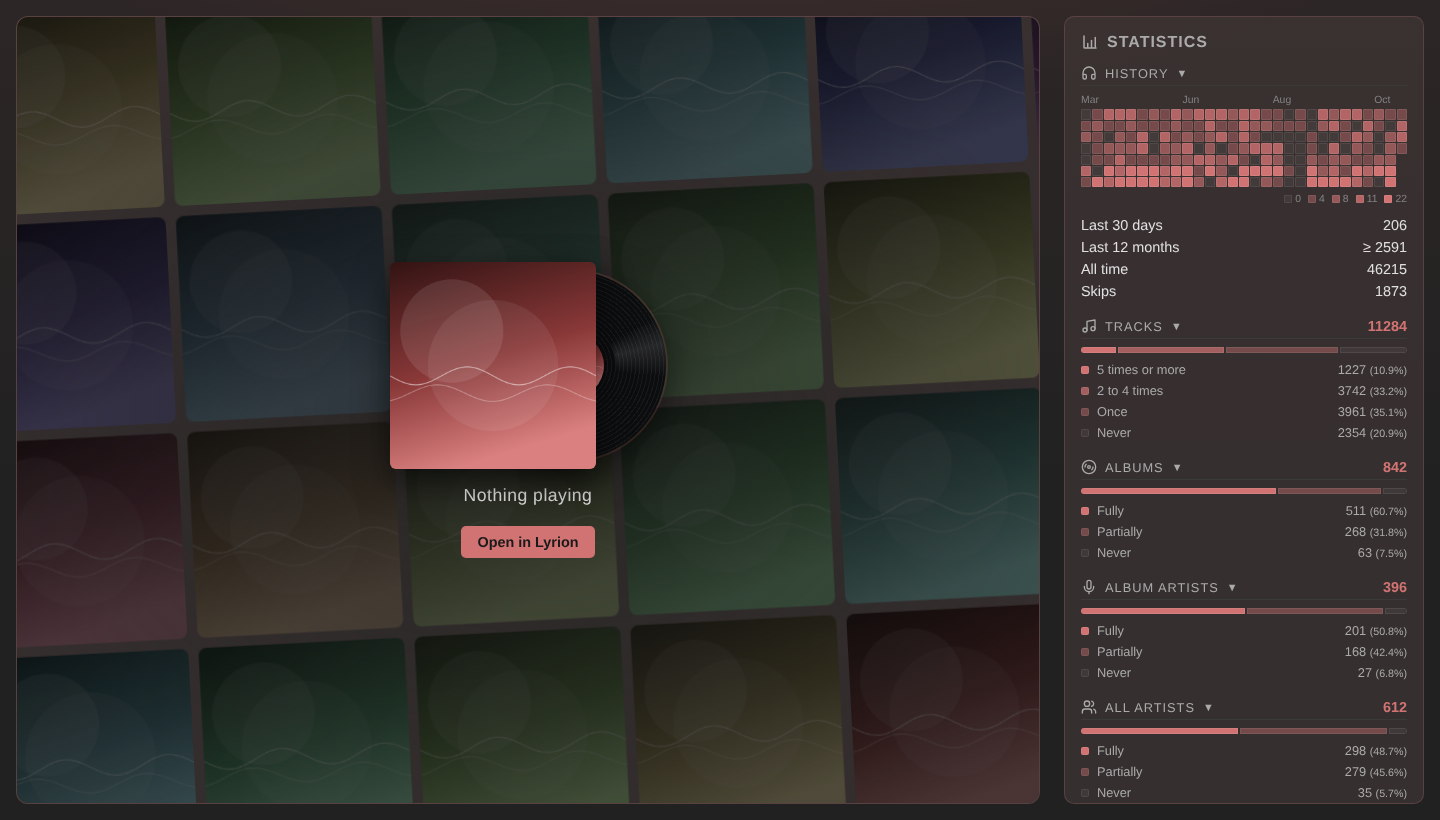
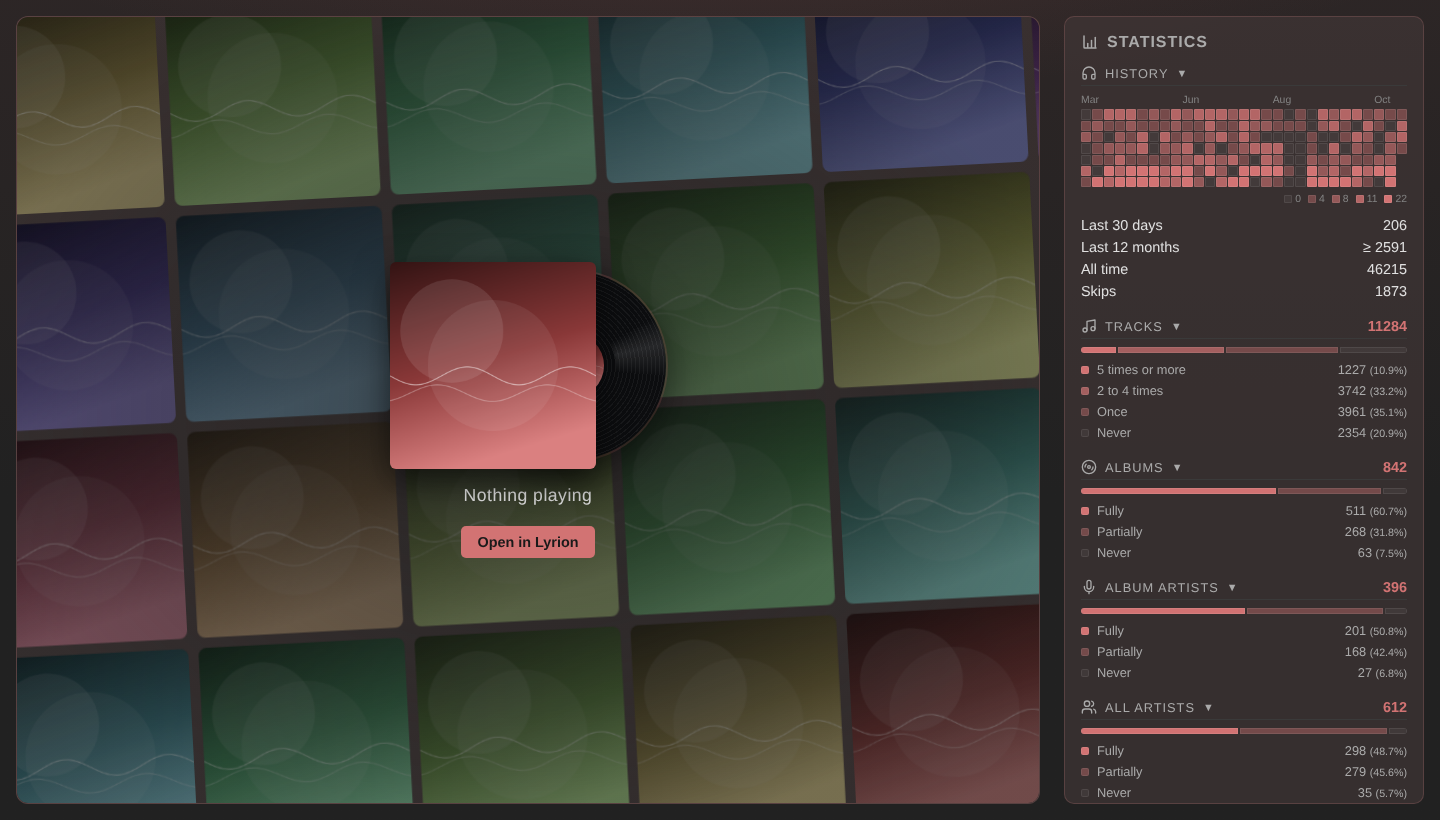
fix(nowplaying): lighten the idle mosaic
At 40% brightness and 70% saturation the mosaic read as almost black
behind the sleeve. It now sits at 60% and 80%, which keeps the sleeve
ahead of it while the covers behind are recognisable.

Claude-Session: https://claude.ai/code/session_016eBy9VYy6o4ucnsNGQp2DT

diff --git a/static/style.css b/static/style.css
@@ -1175,7 +1175,7 @@ body.in-app .np-pull {
     border-radius: 8px;
     /* Graded per tile, not on the moving container: a filter there would force
        the whole collage to be re-rendered on every frame of the belt. */
-    filter: saturate(0.7) brightness(0.4);
+    filter: saturate(0.8) brightness(0.6);
     will-change: transform;
     opacity: 0;
     /* The transform transition is the belt's glide; it must stay well under
